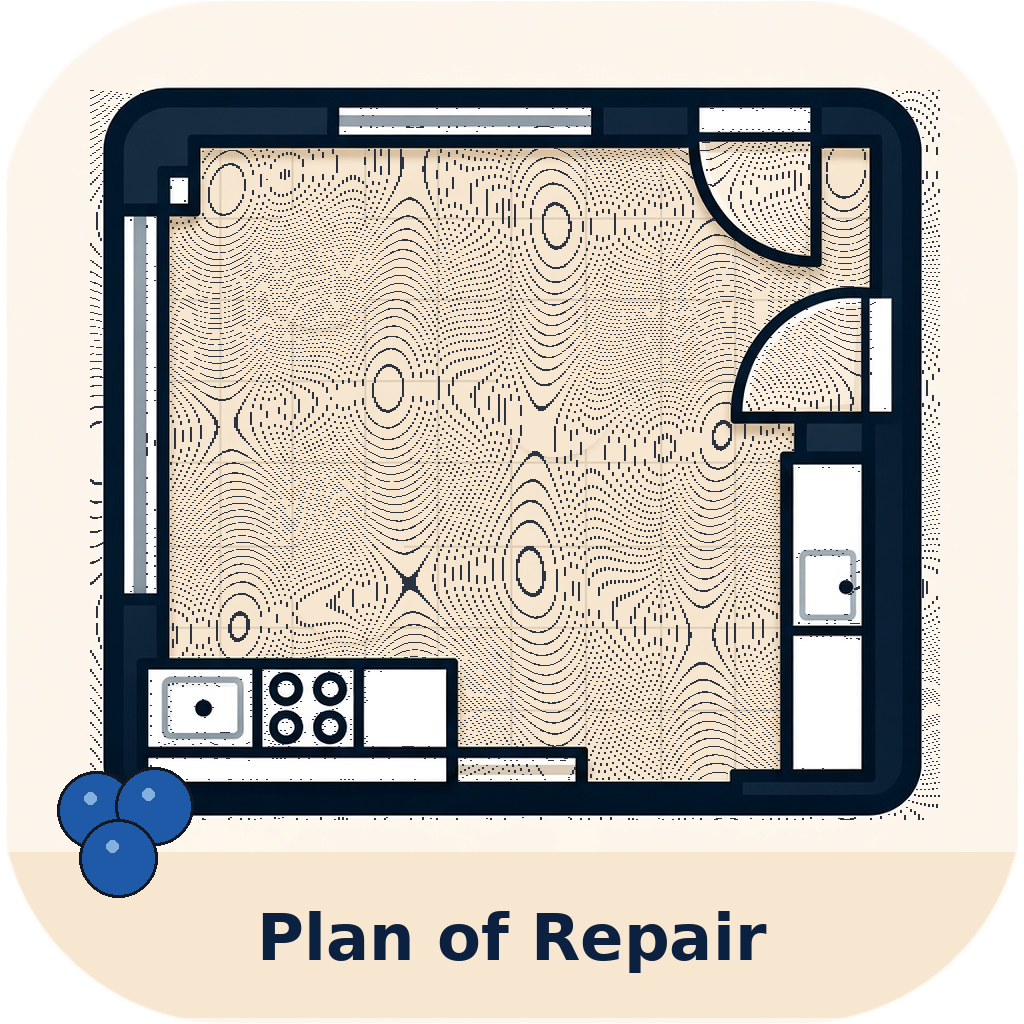
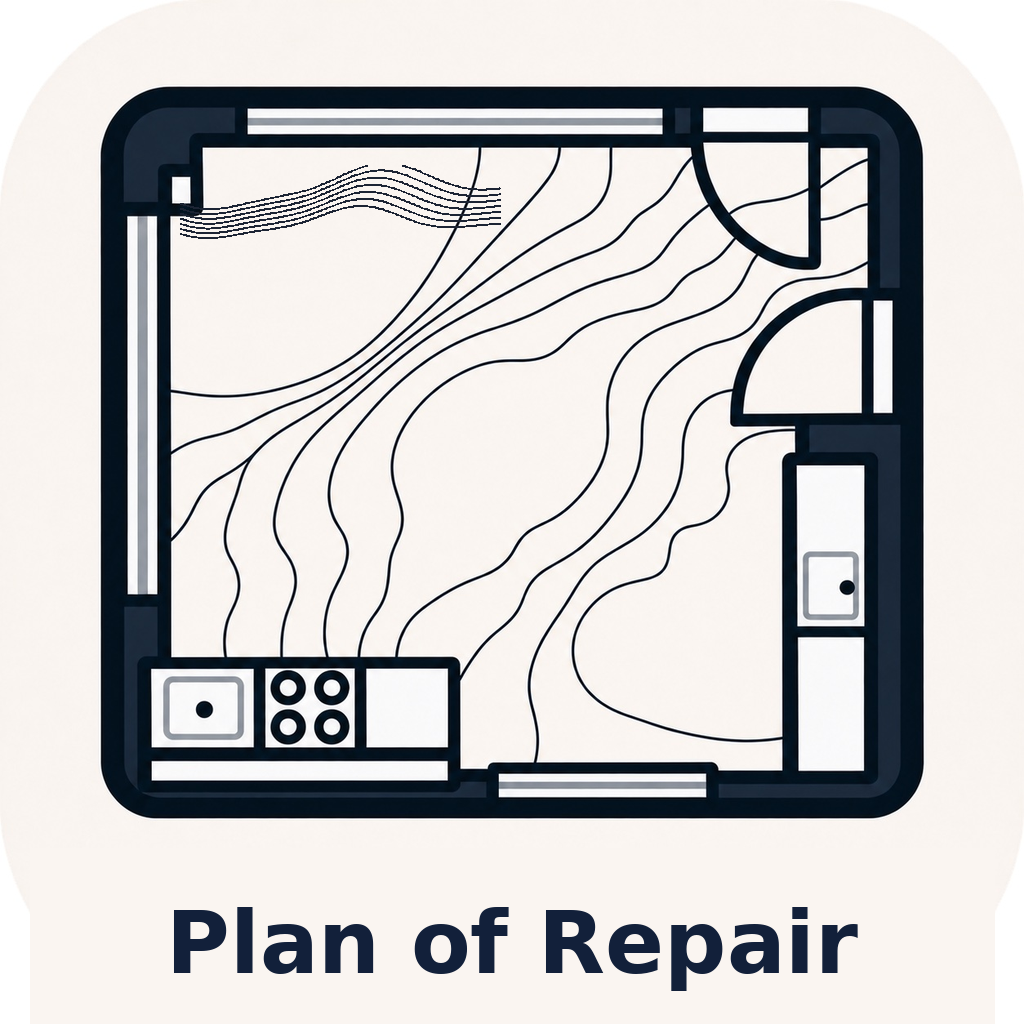
Refine Plan of Repair tile from ChatGPT base.
Add smoother settlement contours in the upper-left of the shared floor plan and size the title closer to the Geo workspace tiles. Shell v472.

diff --git a/sw.js b/sw.js
@@ -15,7 +15,7 @@
 // sw.js file's own bytes change; a precached static asset edited without
 // bumping this stays served from the stale cache indefinitely on already
 // installed devices, invisibly, no matter how many times it's redeployed.
-const CACHE_NAME = 'toolbox-shell-v471';
+const CACHE_NAME = 'toolbox-shell-v472';
 const OFFLINE_DOCUMENT = '/index.html';
 /** PWA start_url is "/" — must resolve offline to the same shell as index.html. */
 const OFFLINE_ROOT = '/';
